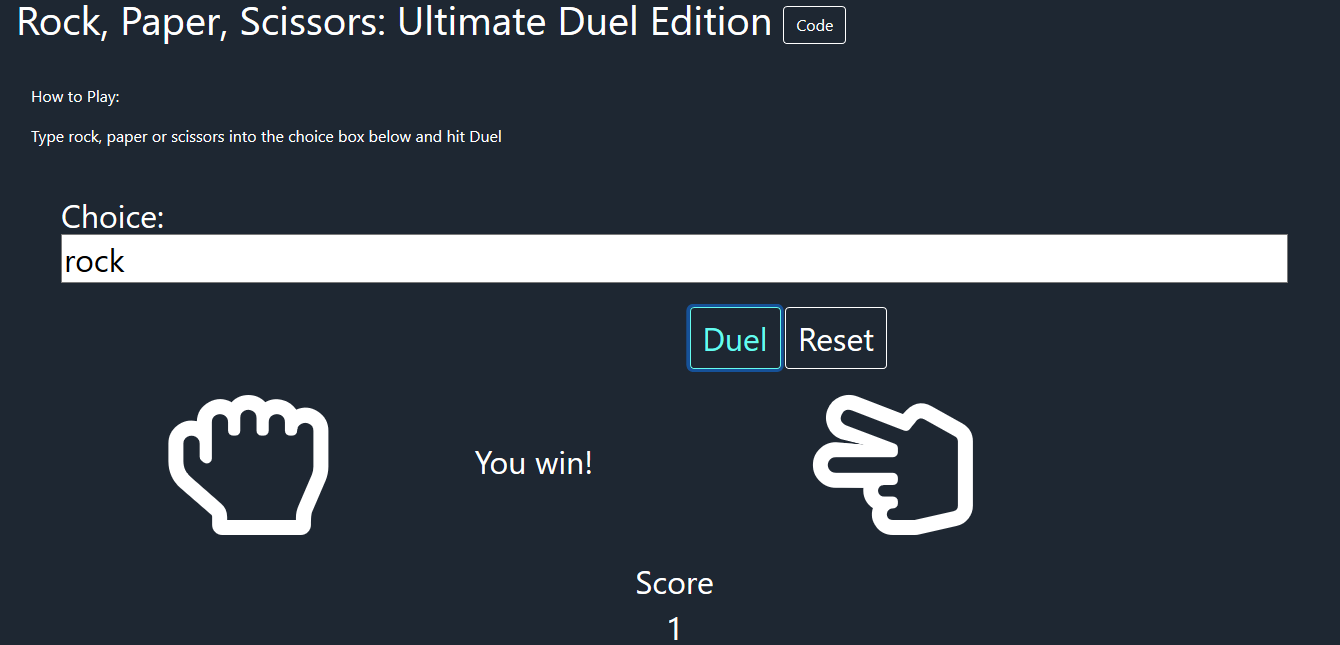
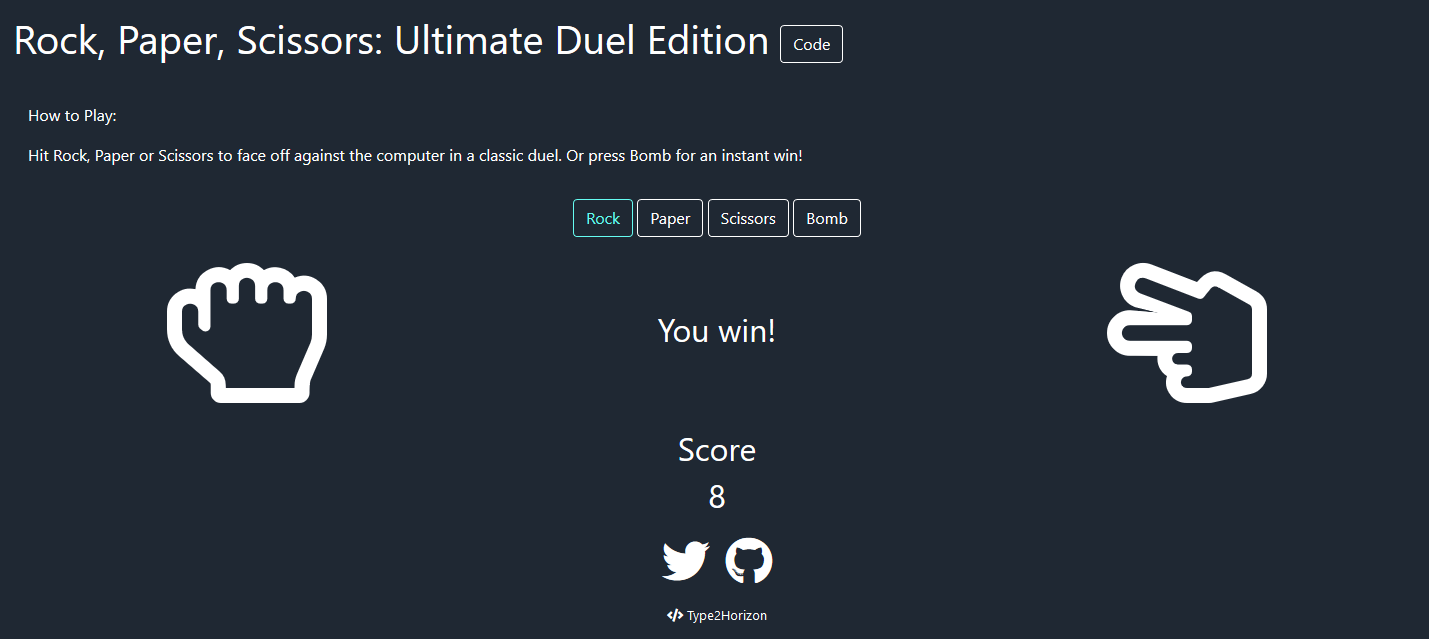
Rock, Paper, Scissors Button Selection added
MOD: User now clicks their selection of Rock, Paper or Scissors
MOD: User text input removed

diff --git a/extended-codecademy/javascript/rock-paper-scissors/rockPaperScissors.js b/extended-codecademy/javascript/rock-paper-scissors/rockPaperScissors.js
@@ -75,21 +75,15 @@ function determineUserScore(userChoice,computerChoice,UserScore) {
   }
 };
 
-function playGame() {
-  const userChoice = getUserChoice(document.getElementById('user_selection').value);
+function playGameRock() {
+  const userChoice = 'rock';
   const computerChoice = getComputerChoice()
   console.log(`you threw ${userChoice}`);
   console.log(`computer threw ${computerChoice}`);
   console.log(determineWinner(userChoice,computerChoice));
   document.getElementById('announceWinner').innerHTML = determineWinner(userChoice,computerChoice);
   document.getElementById('announceScore').innerHTML = determineUserScore(userChoice,computerChoice,userScore);
-  if (userChoice === 'rock') {
   document.getElementById('userPick').setAttribute("class", "far fa-hand-rock fa-10x p-3 align");
-  } else if (userChoice === 'paper') {
-  document.getElementById('userPick').setAttribute("class", "far fa-hand-paper fa-10x p-3");
-  } else {
-  document.getElementById('userPick').setAttribute("class", "far fa-hand-scissors fa-10x p-3");
-  }
   if (computerChoice === 'rock') {
   document.getElementById('computerPick').setAttribute("class", "far fa-hand-rock fa-10x p-3");
   } else if (computerChoice === 'paper') {
@@ -98,4 +92,62 @@ function playGame() {
   document.getElementById('computerPick').setAttribute("class", "far fa-hand-scissors fa-10x p-3");
   }
 };
-document.getElementById('duel').addEventListener('click', playGame);
+
+function playGamePaper() {
+  const userChoice = 'paper';
+  const computerChoice = getComputerChoice()
+  console.log(`you threw ${userChoice}`);
+  console.log(`computer threw ${computerChoice}`);
+  console.log(determineWinner(userChoice,computerChoice));
+  document.getElementById('announceWinner').innerHTML = determineWinner(userChoice,computerChoice);
+  document.getElementById('announceScore').innerHTML = determineUserScore(userChoice,computerChoice,userScore);
+  document.getElementById('userPick').setAttribute("class", "far fa-hand-paper fa-10x p-3 align");
+  if (computerChoice === 'rock') {
+  document.getElementById('computerPick').setAttribute("class", "far fa-hand-rock fa-10x p-3");
+  } else if (computerChoice === 'paper') {
+  document.getElementById('computerPick').setAttribute("class", "far fa-hand-paper fa-10x p-3");
+  } else {
+  document.getElementById('computerPick').setAttribute("class", "far fa-hand-scissors fa-10x p-3");
+  }
+};
+
+function playGameScissors() {
+  const userChoice = 'scissors';
+  const computerChoice = getComputerChoice()
+  console.log(`you threw ${userChoice}`);
+  console.log(`computer threw ${computerChoice}`);
+  console.log(determineWinner(userChoice,computerChoice));
+  document.getElementById('announceWinner').innerHTML = determineWinner(userChoice,computerChoice);
+  document.getElementById('announceScore').innerHTML = determineUserScore(userChoice,computerChoice,userScore);
+  document.getElementById('userPick').setAttribute("class", "far fa-hand-scissors fa-10x p-3 align");
+  if (computerChoice === 'rock') {
+  document.getElementById('computerPick').setAttribute("class", "far fa-hand-rock fa-10x p-3");
+  } else if (computerChoice === 'paper') {
+  document.getElementById('computerPick').setAttribute("class", "far fa-hand-paper fa-10x p-3");
+  } else {
+  document.getElementById('computerPick').setAttribute("class", "far fa-hand-scissors fa-10x p-3");
+  }
+};
+
+function playGameBomb() {
+  const userChoice = 'bomb';
+  const computerChoice = getComputerChoice()
+  console.log(`you threw ${userChoice}`);
+  console.log(`computer threw ${computerChoice}`);
+  console.log(determineWinner(userChoice,computerChoice));
+  document.getElementById('announceWinner').innerHTML = determineWinner(userChoice,computerChoice);
+  document.getElementById('announceScore').innerHTML = determineUserScore(userChoice,computerChoice,userScore);
+  document.getElementById('userPick').setAttribute("class", "fas fa-bomb fa-10x p-3 align");
+  if (computerChoice === 'rock') {
+  document.getElementById('computerPick').setAttribute("class", "far fa-hand-rock fa-10x p-3");
+  } else if (computerChoice === 'paper') {
+  document.getElementById('computerPick').setAttribute("class", "far fa-hand-paper fa-10x p-3");
+  } else {
+  document.getElementById('computerPick').setAttribute("class", "far fa-hand-scissors fa-10x p-3");
+  }
+};
+
+document.getElementById('duelRock').addEventListener('click', playGameRock);
+document.getElementById('duelPaper').addEventListener('click', playGamePaper);
+document.getElementById('duelScissors').addEventListener('click', playGameScissors);
+document.getElementById('duelBomb').addEventListener('click', playGameBomb);

diff --git a/extended-codecademy/javascript/rock-paper-scissors/rock-paper-scissors.html b/extended-codecademy/javascript/rock-paper-scissors/rock-paper-scissors.html
@@ -53,6 +53,10 @@
         color: #66FCF1 !important;
         border-color: #66FCF1 !important;
       }
+      /* Adds Smooth Scrolling */
+      html {
+        scroll-behavior: smooth;
+      }
     </style>
     <title></> Type2Horizon | Portfolio</title>
   </head>
@@ -96,31 +100,27 @@
 <div class="container-fluid">
   <div class="row">
     <div class="col-md-12 text-white p-3"><p>How to Play:</p>
-      <p>Type rock, paper or scissors into the choice box below and hit Duel</p>
+      <p>Hit Rock, Paper or Scissors to face off against the computer in a classic duel. Or press Bomb for an instant win!</p>
+    </div>
   </div>
 </div>
 
-<div class="container-fluid">
+<div class="container-fluid" id="gameFocus">
   <div class="row">
-    <div class="col-md-12"><h2 class="text-white p-3">Choice: <input id="user_selection" style="width: 100%;"></h2></div>
-  </div>
-</div>
-
-<div class="container-fluid">
-  <div class="row">
-    <div class="col-md-6"></div>
-    <div class="col-md-6"><button id="duel" class="btn btn-outline-primary" style="font-size:32px">Duel</button>
-      <button class="btn btn-outline-primary" value="Refresh Page" onClick="location.href=location.href" style="font-size:32px">Reset</button></div>
+    <div class="col-md-12 text-center">
+      <a href="#gameFocus"><button id="duelRock" class="btn btn-outline-primary">Rock</button></a>
+      <a href="#gameFocus"><button id="duelPaper" class="btn btn-outline-primary" href="#gameFocus">Paper</button></a>
+      <a href="#gameFocus"><button id="duelScissors" class="btn btn-outline-primary" href="#gameFocus">Scissors</button></a>
+      <a href="#gameFocus"><button id="duelBomb" class="btn btn-outline-primary" href="#gameFocus">Bomb</button></a>
+    </div>          
   </div>
 </div>
 
 <div class="container-fluid text-white">
   <div class="row">
-    <div class="col-md-1"></div>
-    <div class="col-md-3 align-self-center"><i id="userPick"></i></div>
-    <div class="col-md-3 align-self-center"><h2 id="announceWinner"></h2></div>
-    <div class="col-md-3 align-self-center"><i id="computerPick"></i></div>
-    <div class="col-md-1"></div>
+    <div class="col-md-4 align-self-center text-center"><i id="userPick"></i></div>
+    <div class="col-md-4 align-self-center text-center"><h2 id="announceWinner"></h2></div>
+    <div class="col-md-4 align-self-center text-center"><i id="computerPick"></i></div>
   </div>
 </div>
 
